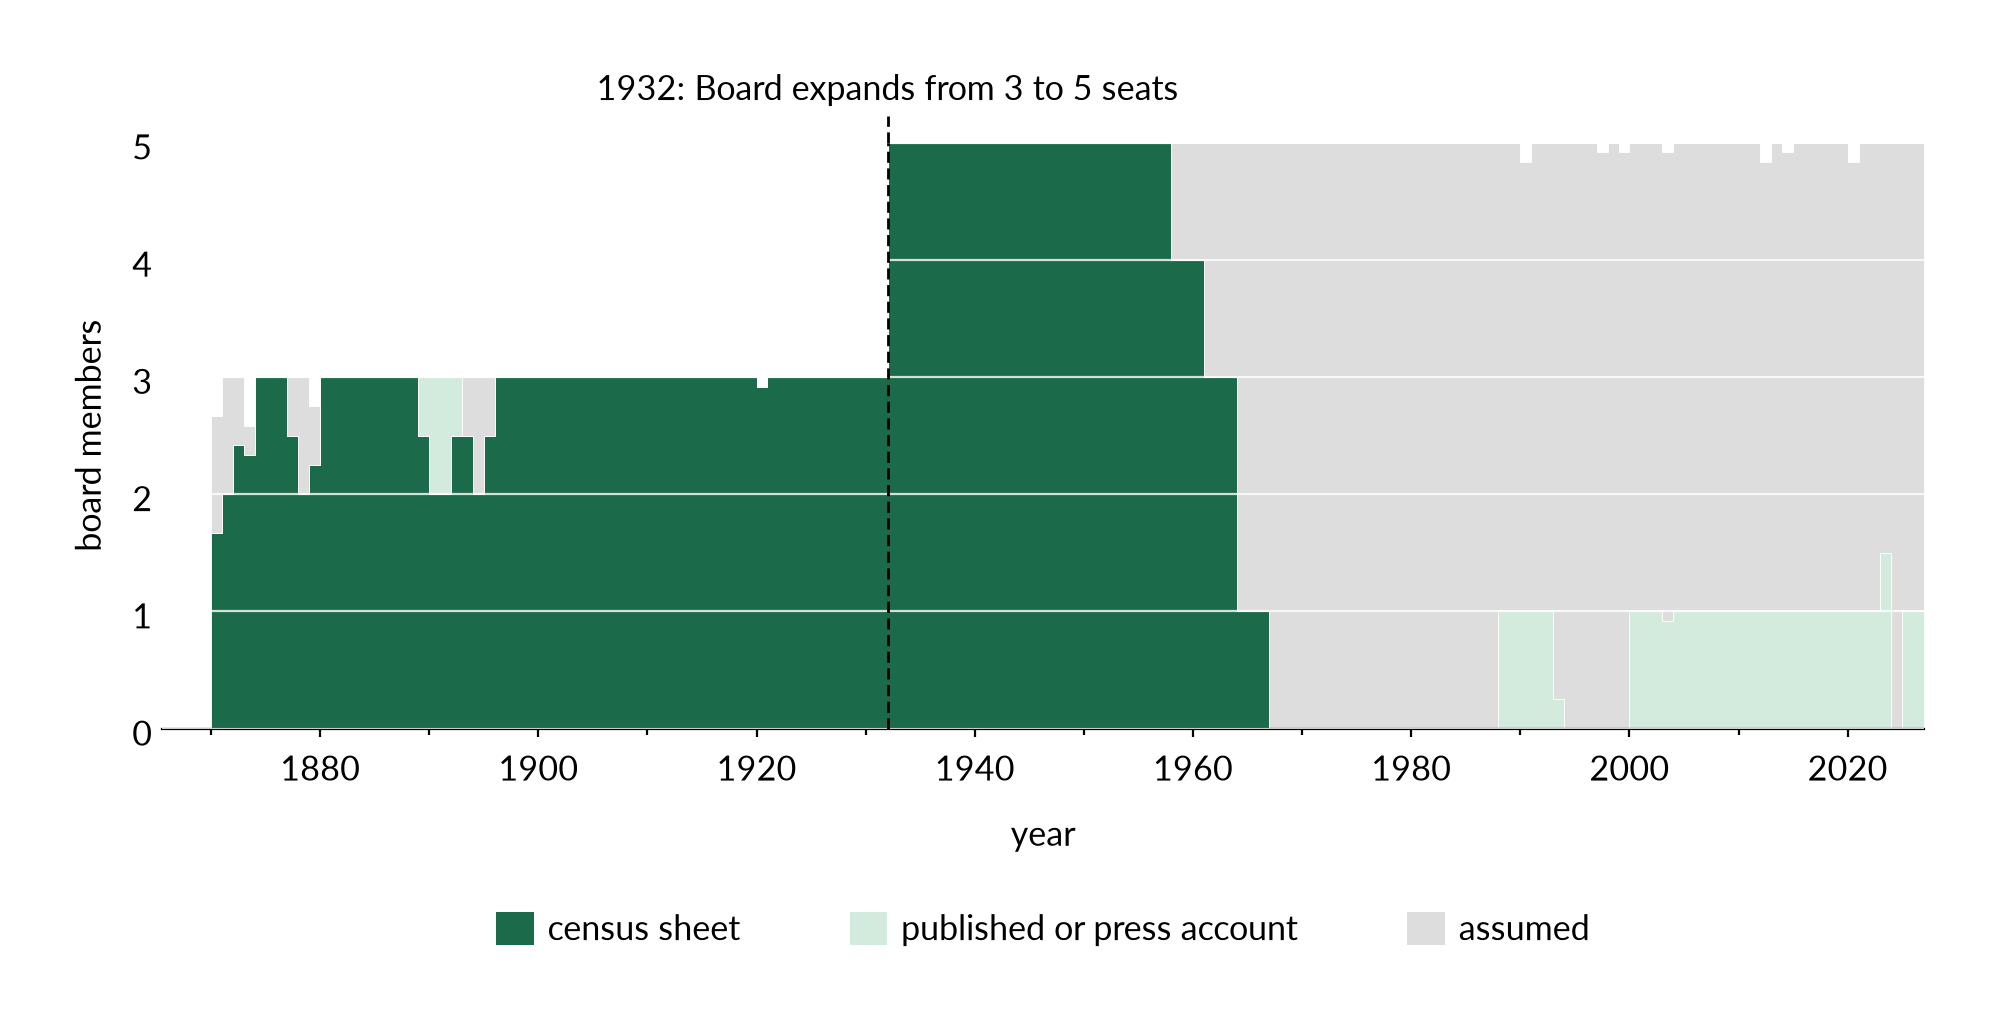
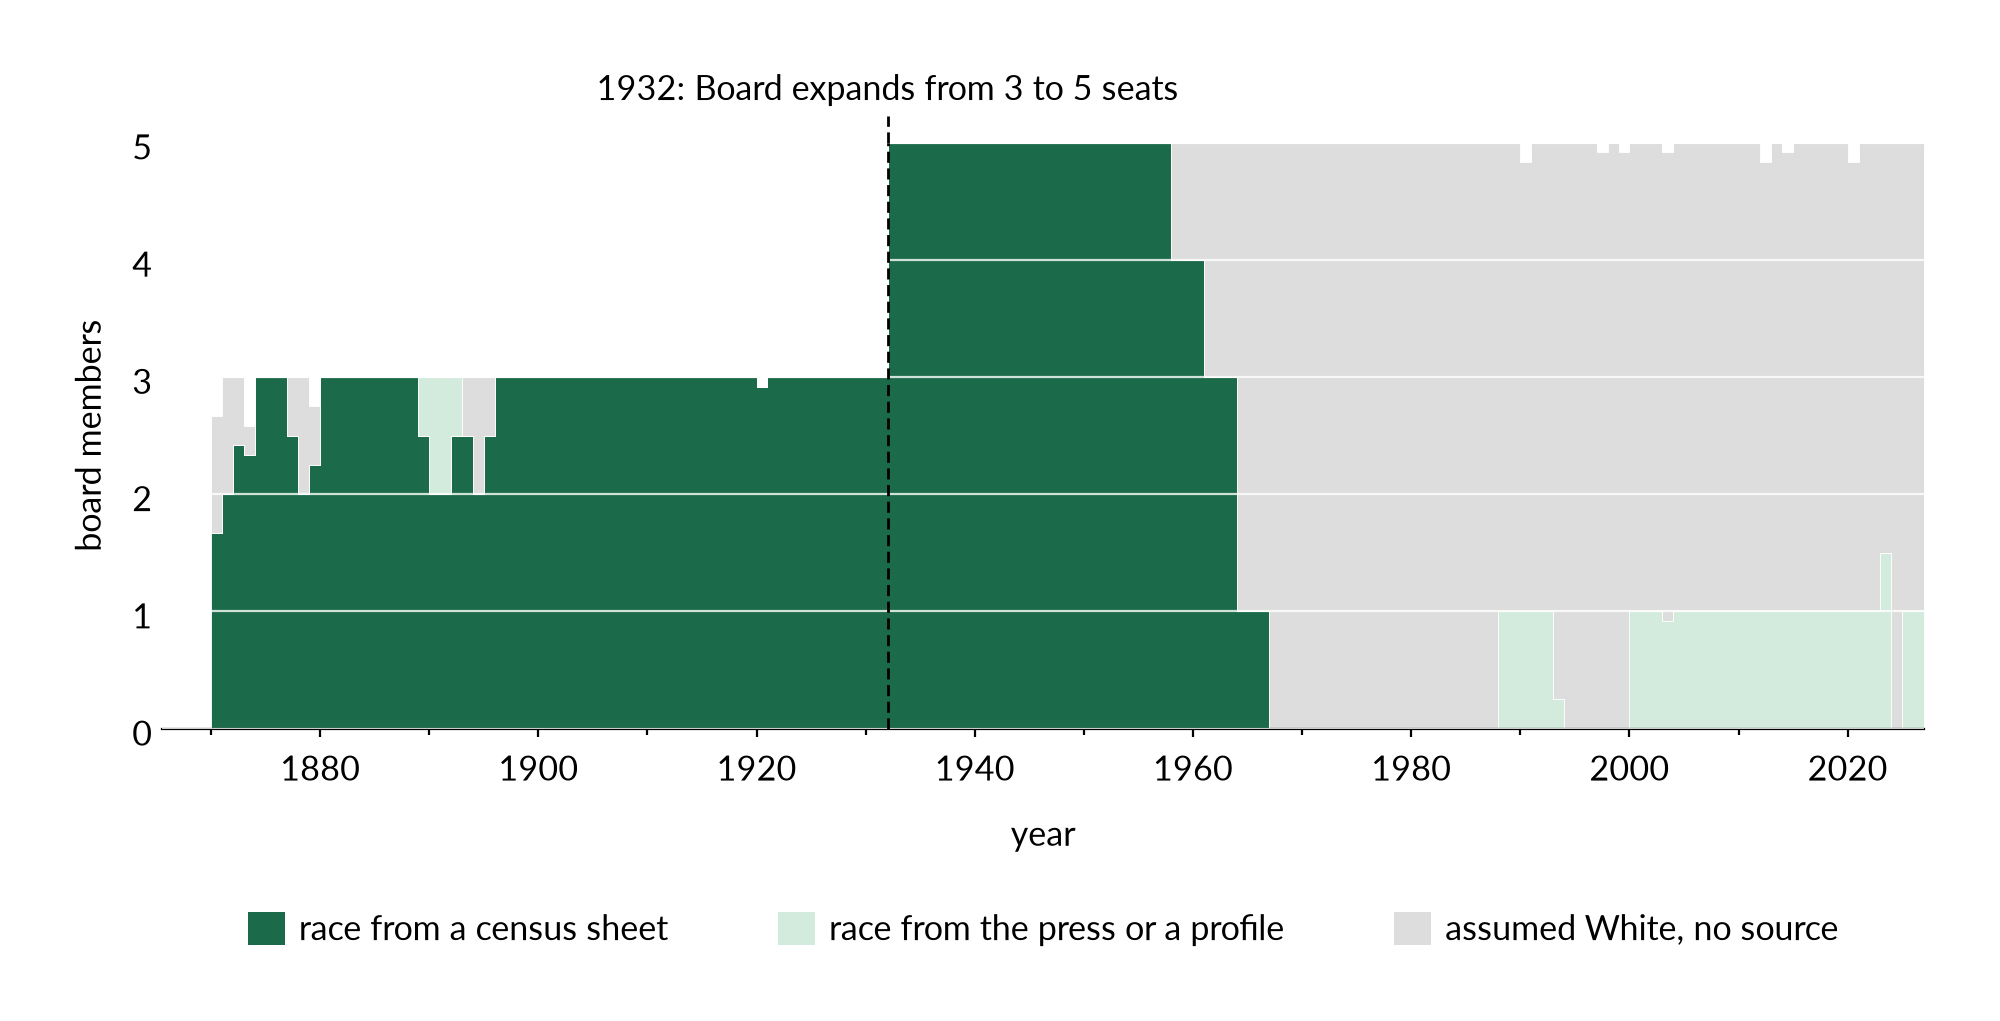
figures: the two data-availability figures are one figure, race and residence as panels, with a legend in words and one short note

Changed region(s): [[0.124, 0.8805, 0.651, 0.9412], [0.682, 0.8805, 0.899, 0.9412]]

diff --git a/paper/arlington-bsap.tex b/paper/arlington-bsap.tex
@@ -1159,32 +1159,24 @@ census closes for 72 years --- the 1950 census is the last open --- and
 no public source takes its place. Since 2013 the most precise location available for
 all five members is a neighborhood named in press coverage.
 
-\begin{pairpage}
+\begin{figure}[p]
+  \centering
   \refstepcounter{figure}\label{fig:board-race-coverage}
+  \label{fig:board-residence}
   {\raggedright\MakeUppercase{Figure \thefigure}\par}
-  {\raggedright\bfseries Data Availability: Board Member Race\par}
+  {\raggedright\bfseries Data Availability: Board Member Race and Residence\par}
+  \medskip
+  {\raggedright (a) race\par}
+  \pairfigure{members_race_coverage.pdf}\par
+  \bigskip
+  {\raggedright (b) residence\par}
+  \pairfigure{members_residence_coverage.pdf}\par
   \smallskip
-  \pairfigure{members_race_coverage.pdf}
-  \vspace{2pt}
-  \figurenotes{
-    Notes: Shading shows the source for each member's race: darkest the
-    census, paler a published or press account, grey an assumption that the
-    member was White because no source says otherwise.}{}
-  \vfill
-  \refstepcounter{figure}\label{fig:board-residence}
-  {\raggedright\MakeUppercase{Figure \thefigure}\par}
-  {\raggedright\bfseries Data Availability: Board Member Residence\par}
-  \smallskip
-  \pairfigure{members_residence_coverage.pdf}
-  \vspace{2pt}
-  \figurenotes{
-    Notes: Shading shows the most specific place on record for each member's
-    home: darkest a street address, palest a magisterial district or a
-    side of the County, grey none. Census sheets give street
-    addresses in the mid-twentieth century; before 1932 they mostly name
-    only a magisterial district. More recent members are located largely
-    by neighborhoods named in the press and in public profiles.}{}
-\end{pairpage}
+  \figurenotes{Notes: Each band is one member. In panel (b) the shade is the
+  most precise place any source gives for the member's home, and grey is none;
+  before 1932 the census names only a magisterial district, and since 2013 the
+  press names only a neighborhood.}{}
+\end{figure}
 
 Before 1932 only the census places a member, and outside the towns its sheets
 name a magisterial district and leave the street column blank. Of the 41

diff --git a/style/style.py b/style/style.py
@@ -103,8 +103,8 @@ DOT_HIGHLIGHT = 70
 # darker the more direct the source, and the no-evidence grey for the default.
 RACE_BASIS = dict(zip(
     ("census", "published"),
-    zip(("census sheet", "published or press account"), reversed(ramp(2)))))
-RACE_BASIS["default"] = ("assumed", UNRECORDED)
+    zip(("race from a census sheet", "race from the press or a profile"), reversed(ramp(2)))))
+RACE_BASIS["default"] = ("assumed White, no source", UNRECORDED)
 # The sitting Board's ages on a Lexis diagram: the span from youngest to
 # oldest in the near-neutral, each member's tenure a stroke in the dark grey.
 AGE_SPAN = {

diff --git a/docs/figures.md b/docs/figures.md
@@ -497,6 +497,10 @@ there the labels can be shortened and here the years cannot.
   what the occupant's race rests on, as a stacked step area on the seat axis,
   so it reads like the seat figures and like `members_residence_coverage`, and
   a reader can see at once which years the race figure stands on a default.
+  Its legend says what each shade is in words ("race from a census sheet",
+  "race from the press or a profile", "assumed White, no source"), so the
+  figure needs no note; it shares one figure, as panel (a), with the residence
+  figure as panel (b), under one short note (Sally, 4 October 2026).
   It reads `members_by_year`, as does every figure on the seat axis, so a
   vacancy is decided once, in the clean stage, and shows as a notch in all of
   them. Counts rather than a share, because two of three and four of five are
